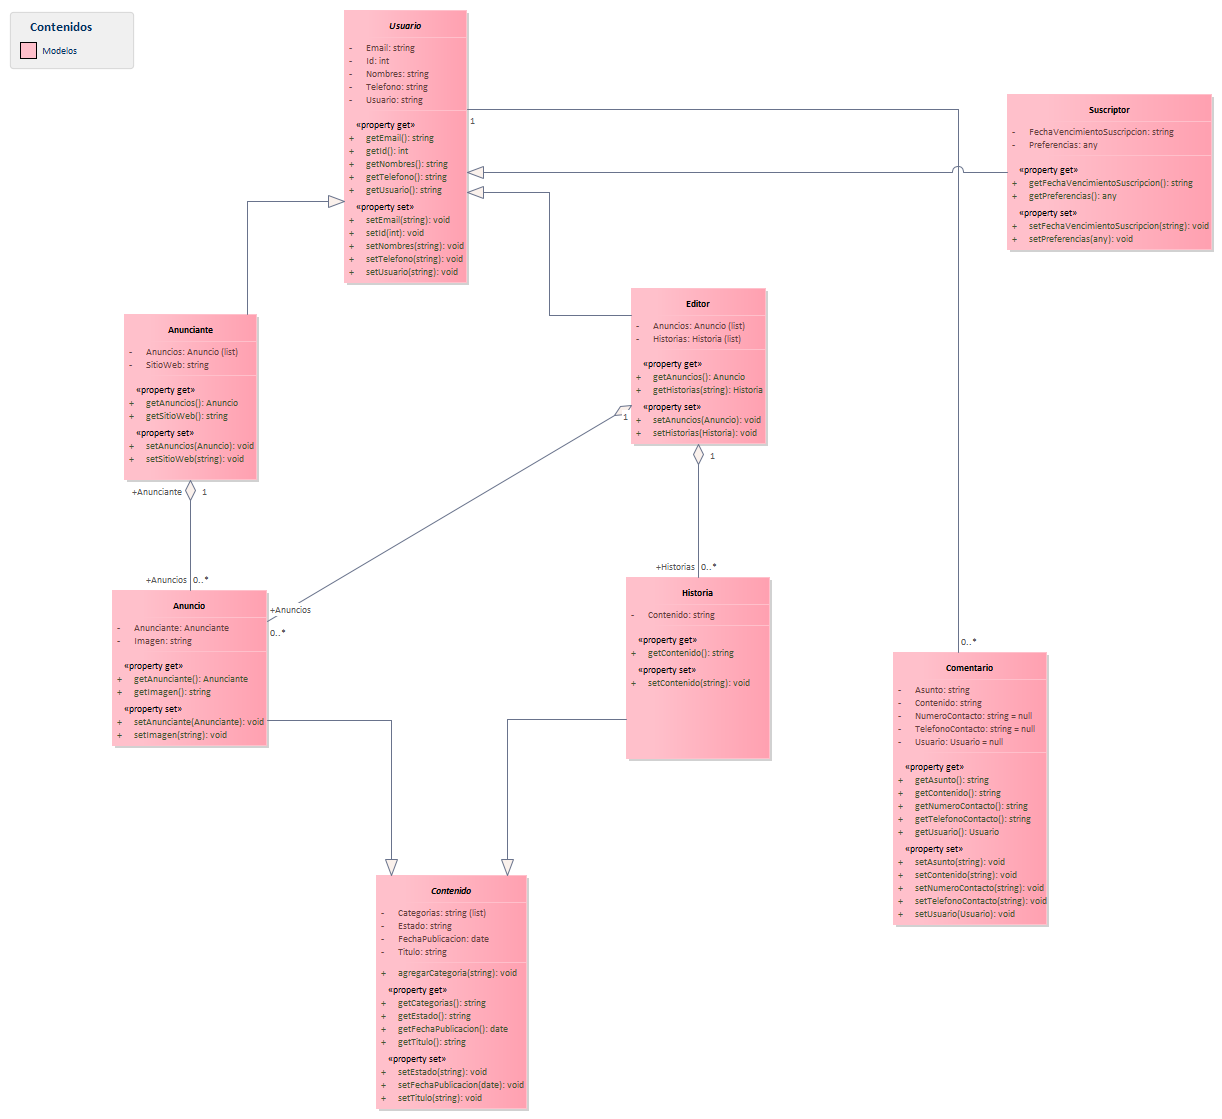
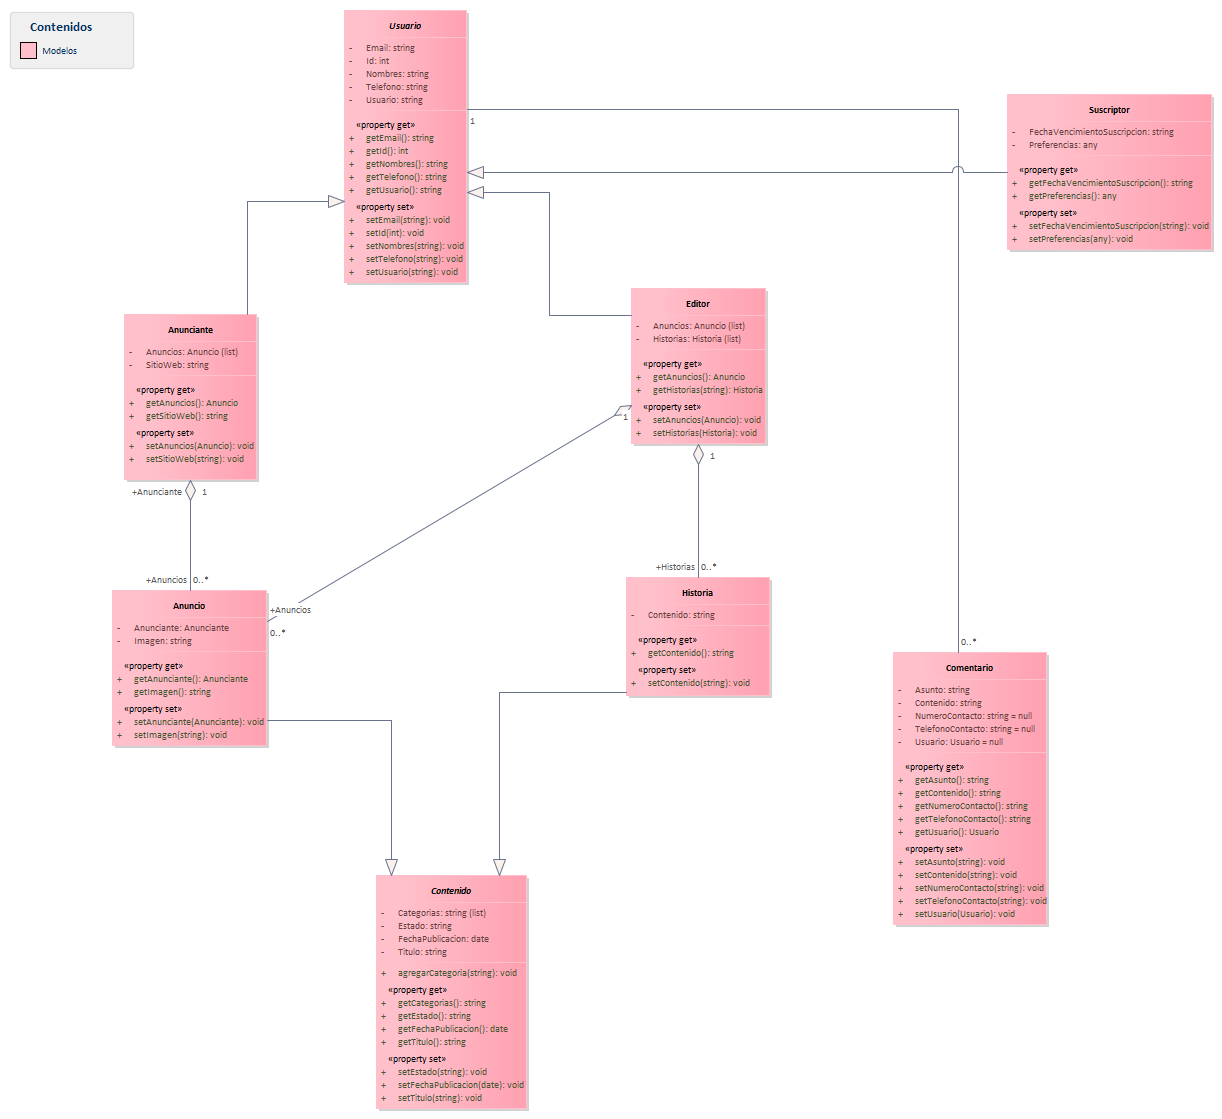
wip

Changed region(s): [[0.4975, 0.6077, 0.653, 0.6988], [0.4043, 0.7596, 0.4354, 0.79]]

diff --git a/EARoot/EA3/EA1/EA2/EA86.html b/EARoot/EA3/EA1/EA2/EA86.html
@@ -40,7 +40,7 @@ function nameClassifier(name, separator)
 <area shape="rect" coords="10,12,134,69" href="EA98.html" target="_self">
 <area shape="rect" coords="112,590,267,746" href="EA91.html" target="_self">
 <area shape="rect" coords="631,288,766,444" href="EA94.html" target="_self">
-<area shape="rect" coords="626,577,770,759" href="EA95.html" target="_self">
+<area shape="rect" coords="626,577,770,696" href="EA95.html" target="_self">
 <area shape="rect" coords="376,875,527,1109" href="EA93.html" target="_self">
 <area shape="rect" coords="1007,94,1212,250" href="EA96.html" target="_self">
 <area shape="rect" coords="344,10,467,283" href="EA97.html" target="_self">
@@ -55,7 +55,7 @@ function nameClassifier(name, separator)
 		</tr>
 		<tr>
 			<td width="15%" class="ObjectDetailsTopic">Modified:</td>
-			<td width="85%" class="ObjectDetailsValue">18/03/2021 9:13:19 a. m.</td>
+			<td width="85%" class="ObjectDetailsValue">18/03/2021 10:03:33 a. m.</td>
 		</tr>
 		<tr style="padding-top: 10px;">
 			<td width="15%" class="ObjectDetailsTopic"><img src="../../../../images/plus03.gif" align="absmiddle" id="proj" onclick="parent.toggleData(this.id)" />Project:</td>

diff --git a/index.html b/index.html
@@ -2,13 +2,13 @@
 <html xmlns="http://www.w3.org/1999/xhtml">
 <head>
 <meta http-equiv="Content-Type" content="text/html; charset=UTF-8" />
-<title>Model</title>
+<title>Taller 2 - Diagramas de clases</title>
 <link href="css/ea.css" rel="stylesheet" type="text/css" />
 <script language="JavaScript" src="js/displayToc.js" type="text/javascript"></script>
 </head>
 <body onload="initLoad(this,'toc.html','./EARoot/EA1/EA1.html')" onresize="resizePage()">
 <div class="IndexTitle">
-	Model
+	Taller 2 - Diagramas de clases
 </div>
 <div class="IndexHeader" id="IndexHeader">
 	<img src="images/logo-scs-key1106374.png" align="right" alt="Enterprise Architect" />
